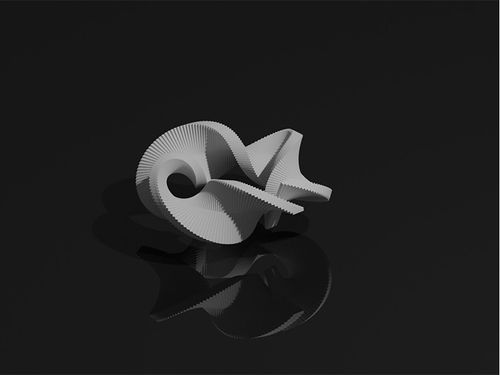
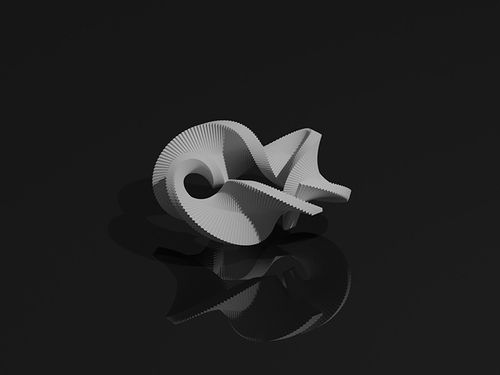
Added Sunset Scores
Added Sunset Scores images and corrected mislabelled 3D modeling image

diff --git a/index.html b/index.html
@@ -1,5 +1,5 @@
 <!DOCTYPE html><!--  This site was created in Webflow. https://www.webflow.com  -->
-<!--  Last Published: Fri Dec 30 2022 20:12:21 GMT+0000 (Coordinated Universal Time)  -->
+<!--  Last Published: Sat Dec 31 2022 18:52:58 GMT+0000 (Coordinated Universal Time)  -->
 <html data-wf-page="636308fed7f088f15edbbd2a" data-wf-site="62f7e8dd2a4c4ec98c352790">
 <head>
   <meta charset="utf-8">
@@ -46,7 +46,7 @@
   </div>
   <section id="projects-section" class="projects-section">
     <div id="ux-design" class="ux-design">
-      <div class="div-block-2"><img src="images/01-home-hor.jpg" loading="lazy" width="601" sizes="100vw" srcset="images/01-home-hor-p-500.jpg 500w, images/01-home-hor.jpg 600w" alt="" class="image-16"></div>
+      <div class="div-block-2"><img src="images/sunset-scores-vert.jpg" loading="lazy" sizes="(max-width: 479px) 86vw, (max-width: 991px) 39vw, 38vw" srcset="images/sunset-scores-vert.jpg 500w" alt="" class="image-22"><img src="images/01-home-hor.jpg" loading="lazy" width="601" sizes="100vw" srcset="images/01-home-hor-p-500.jpg 500w, images/01-home-hor.jpg 600w" alt="" class="image-16"></div>
       <div class="div-block">
         <h3 class="heading-6">UX Design</h3>
         <p class="paragraph">Lorem ipsum dolor sit amet, consectetur adipiscing elit. Suspendisse varius enim in eros elementum tristique. Duis cursus, mi quis viverra ornare, eros dolor interdum nulla, ut commodo diam libero vitae erat. Aenean faucibus nibh et justo cursus id rutrum lorem imperdiet. Nunc ut sem vitae risus tristique posuere.</p>
@@ -74,7 +74,7 @@
       </div>
     </div>
     <div id="3d-modeling" class="_3d-modeling">
-      <div class="div-block-2"><img src="images/abstract_spiral-vert.jpg" loading="lazy" sizes="(max-width: 479px) 86vw, (max-width: 991px) 39vw, 38vw" width="800" srcset="images/abstract_spiral-vert-p-500.jpg 500w, images/abstract_spiral-vert-p-800.jpg 800w, images/abstract_spiral-vert.jpg 800w" alt="" class="image-18"><img src="images/abstract_spiral-hor.jpg" loading="lazy" sizes="100vw" srcset="images/abstract_spiral-hor-p-500.jpg 500w, images/abstract_spiral-hor.jpg 600w" alt="" class="image-16"></div>
+      <div class="div-block-2"><img src="images/abstract_spiral-vert.jpg" loading="lazy" sizes="(max-width: 479px) 86vw, (max-width: 991px) 39vw, 38vw" srcset="images/abstract_spiral-vert.jpg 500w" alt="" class="image-18"><img src="images/abstract_spiral-hor.jpg" loading="lazy" sizes="100vw" srcset="images/abstract_spiral-hor-p-500.jpg 500w, images/abstract_spiral-hor.jpg 600w" alt="" class="image-16"></div>
       <div class="div-block">
         <h3 class="heading-6">3D Modeling</h3>
         <p class="paragraph">Lorem ipsum dolor sit amet, consectetur adipiscing elit. Suspendisse varius enim in eros elementum tristique. Duis cursus, mi quis viverra ornare, eros dolor interdum nulla, ut commodo diam libero vitae erat. Aenean faucibus nibh et justo cursus id rutrum lorem imperdiet. Nunc ut sem vitae risus tristique posuere.</p>

diff --git a/css/design-transmission.webflow.css b/css/design-transmission.webflow.css
@@ -533,6 +533,10 @@ body {
   background-color: #fff;
 }
 
+.image-18 {
+  box-shadow: 3px 3px 6px 2px rgba(0, 0, 0, 0.35);
+}
+
 .ux-design {
   display: -webkit-box;
   display: -webkit-flex;
@@ -553,6 +557,22 @@ body {
   -ms-flex-align: start;
   align-items: flex-start;
   background-color: #fff;
+}
+
+.image-19 {
+  box-shadow: 3px 3px 6px 2px rgba(0, 0, 0, 0.35);
+}
+
+.image-20 {
+  box-shadow: 3px 3px 6px 2px rgba(0, 0, 0, 0.35);
+}
+
+.image-21 {
+  box-shadow: 3px 3px 6px 2px rgba(0, 0, 0, 0.35);
+}
+
+.image-22 {
+  box-shadow: 3px 3px 6px 2px rgba(0, 0, 0, 0.35);
 }
 
 @media screen and (max-width: 991px) {

diff --git a/3d-modeling.html b/3d-modeling.html
@@ -1,5 +1,5 @@
 <!DOCTYPE html><!--  This site was created in Webflow. https://www.webflow.com  -->
-<!--  Last Published: Fri Dec 30 2022 20:12:21 GMT+0000 (Coordinated Universal Time)  -->
+<!--  Last Published: Sat Dec 31 2022 18:52:58 GMT+0000 (Coordinated Universal Time)  -->
 <html data-wf-page="63a21e672c894566997d566d" data-wf-site="62f7e8dd2a4c4ec98c352790">
 <head>
   <meta charset="utf-8">

diff --git a/illustration.html b/illustration.html
@@ -1,5 +1,5 @@
 <!DOCTYPE html><!--  This site was created in Webflow. https://www.webflow.com  -->
-<!--  Last Published: Fri Dec 30 2022 20:12:21 GMT+0000 (Coordinated Universal Time)  -->
+<!--  Last Published: Sat Dec 31 2022 18:52:58 GMT+0000 (Coordinated Universal Time)  -->
 <html data-wf-page="63a21e5899fdfcb655c4d30d" data-wf-site="62f7e8dd2a4c4ec98c352790">
 <head>
   <meta charset="utf-8">

diff --git a/native-app-design.html b/native-app-design.html
@@ -1,5 +1,5 @@
 <!DOCTYPE html><!--  This site was created in Webflow. https://www.webflow.com  -->
-<!--  Last Published: Fri Dec 30 2022 20:12:21 GMT+0000 (Coordinated Universal Time)  -->
+<!--  Last Published: Sat Dec 31 2022 18:52:58 GMT+0000 (Coordinated Universal Time)  -->
 <html data-wf-page="63a21e359bf8f11e45d52573" data-wf-site="62f7e8dd2a4c4ec98c352790">
 <head>
   <meta charset="utf-8">

diff --git a/ux-design.html b/ux-design.html
@@ -1,5 +1,5 @@
 <!DOCTYPE html><!--  This site was created in Webflow. https://www.webflow.com  -->
-<!--  Last Published: Fri Dec 30 2022 20:12:21 GMT+0000 (Coordinated Universal Time)  -->
+<!--  Last Published: Sat Dec 31 2022 18:52:58 GMT+0000 (Coordinated Universal Time)  -->
 <html data-wf-page="63a21df012b929c3654fd40d" data-wf-site="62f7e8dd2a4c4ec98c352790">
 <head>
   <meta charset="utf-8">

diff --git a/web-design.html b/web-design.html
@@ -1,5 +1,5 @@
 <!DOCTYPE html><!--  This site was created in Webflow. https://www.webflow.com  -->
-<!--  Last Published: Fri Dec 30 2022 20:12:21 GMT+0000 (Coordinated Universal Time)  -->
+<!--  Last Published: Sat Dec 31 2022 18:52:58 GMT+0000 (Coordinated Universal Time)  -->
 <html data-wf-page="63a21e0fbeb95d27f6942142" data-wf-site="62f7e8dd2a4c4ec98c352790">
 <head>
   <meta charset="utf-8">
